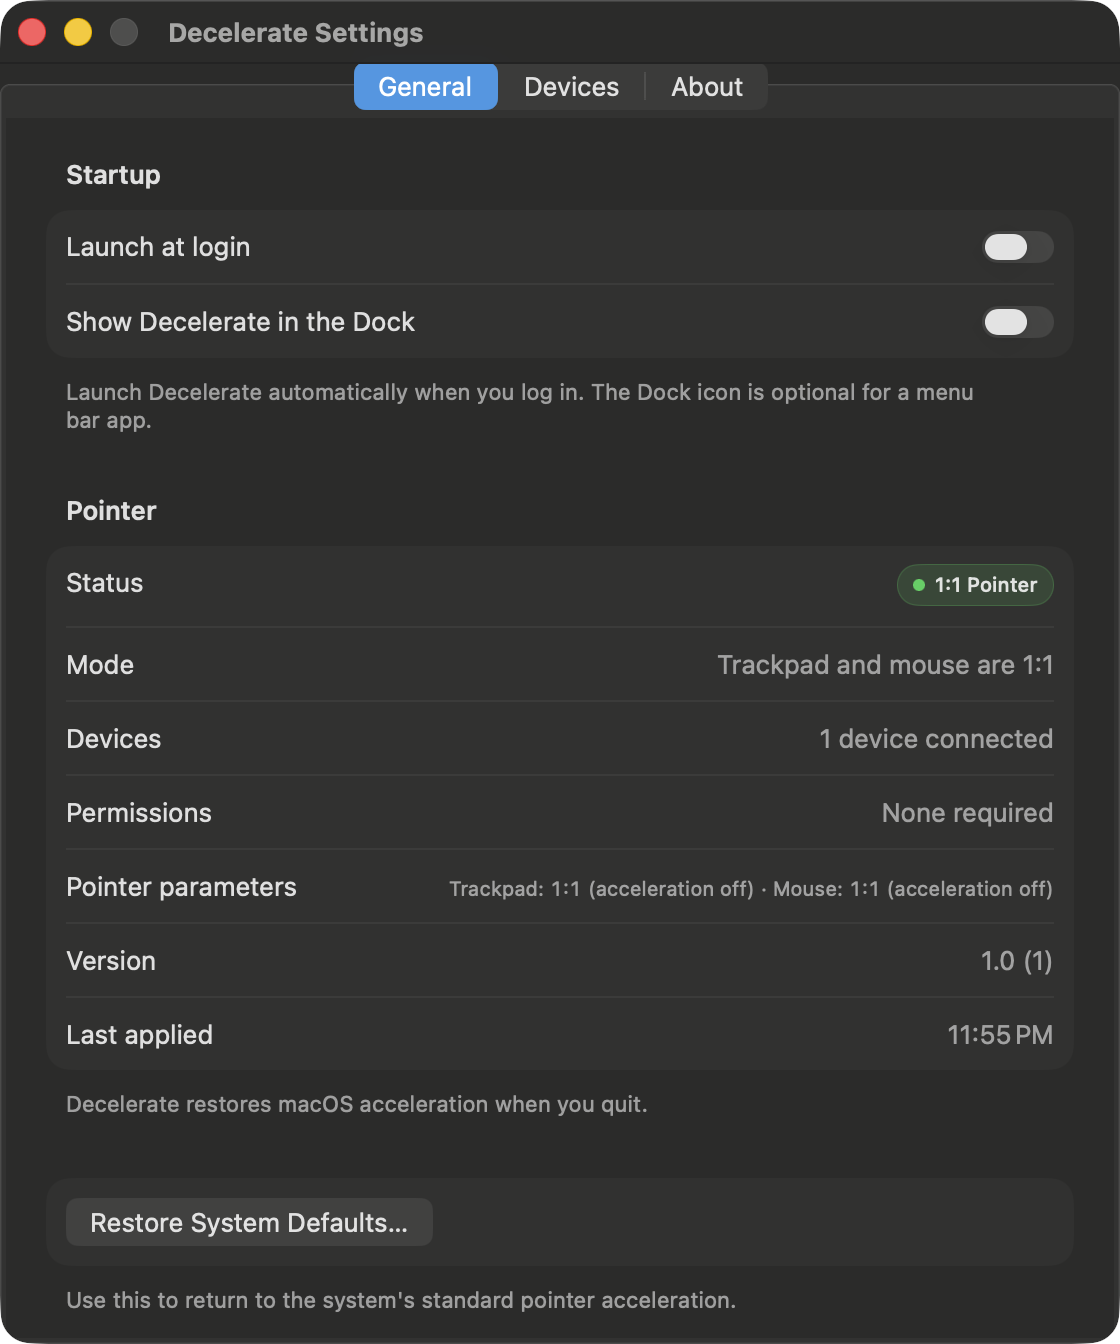
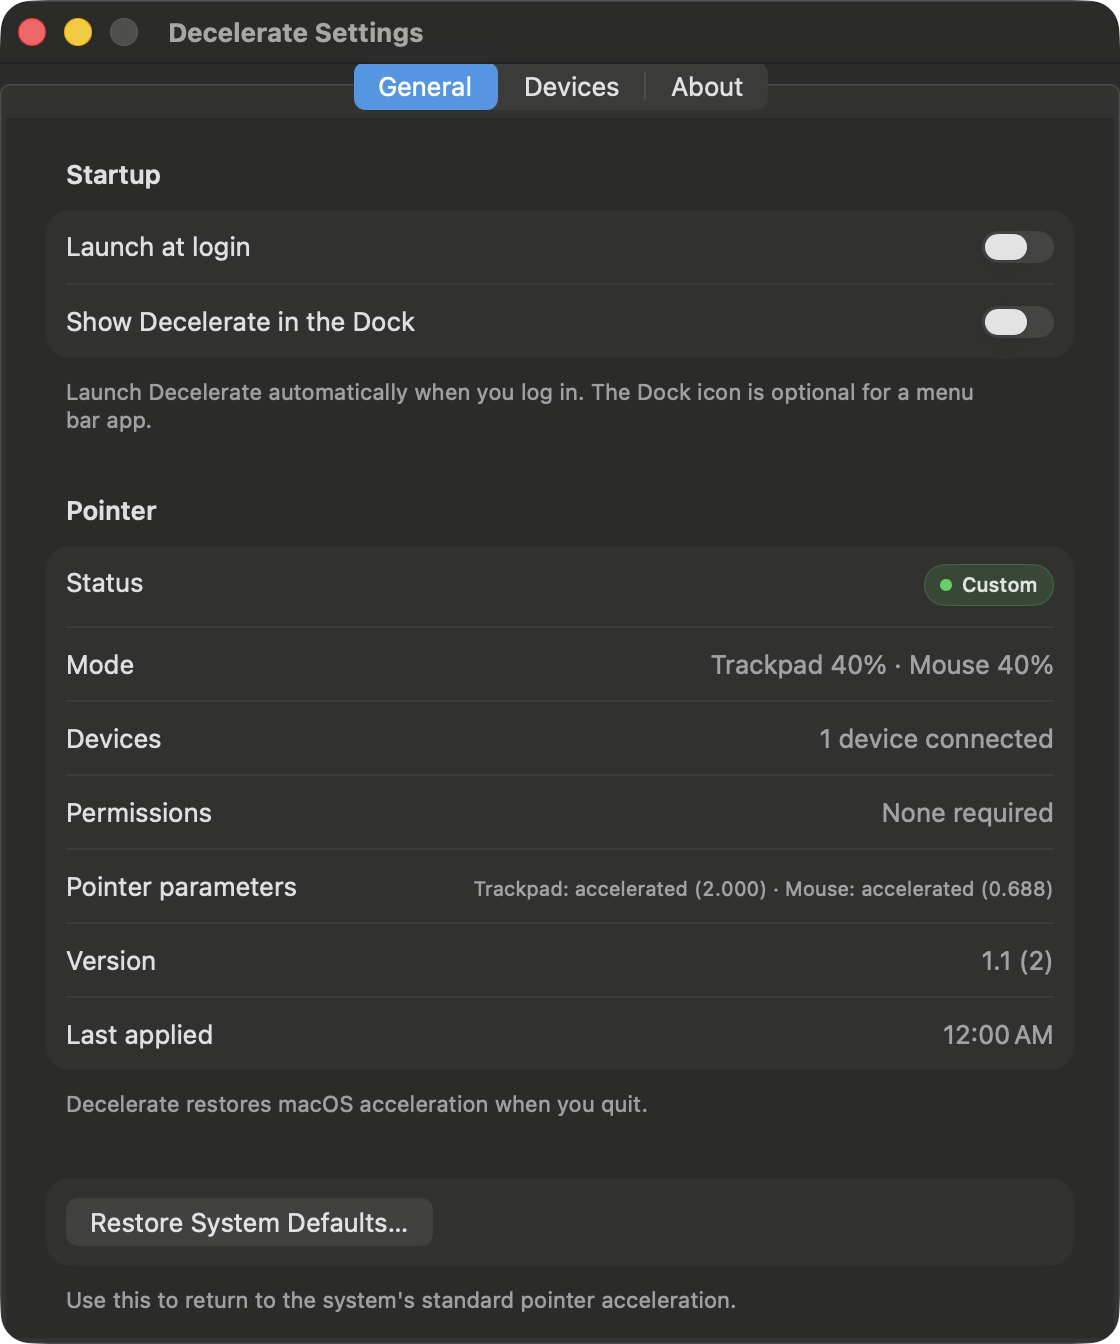
Fix parametric blend for kCursorScale; document mouse index-scaling route
- Parametric identity is GainLinear = 67/96 (filter multiplier includes 96/67),
  so blend GL' = (1-f)/kCursorScale + f*GL_n; matches research coefficient table.
- Scale the high-velocity parabolic tangent at small factors so the blended
  curve never decelerates below 1:1.
- Table-only mice: apply the amount by scaling the native acceleration index
  (exact for the linear table interpolation); document limitation.
- Refresh docs screenshots for v1.1.

diff --git a/Decelerate/Core/AccelerationCurveBuilder.swift b/Decelerate/Core/AccelerationCurveBuilder.swift
@@ -7,27 +7,67 @@ import Foundation
 /// The math mirrors Apple's `IOHIDPointerScrollFilter` /
 /// `IOHIDParametricAcceleration` (see `Notes/acceleration-amount-research.md`):
 ///
-///     gain(v) = GainLinear + GainParabolic²·v + GainCubic³·v² + GainQuartic⁴·v³
+///     multiplier(v) = kCursorScale · (GainLinear·v + (GainParabolic·v)²
+///                                      + (GainCubic·v)³ + (GainQuartic·v)⁴)
 ///
-/// for the first segment. Blending the *gain* toward 1.0 therefore means
+/// for the first segment, where `kCursorScale = 96/67`. The filter's *gain*
+/// (multiplier/v) is therefore scaled by `kCursorScale` too, so identity in the
+/// parametric domain is `GainLinear = 1/kCursorScale = 67/96`, not 1.0 (the
+/// simple linear-scaling path multiplies deltas directly, so raw passthrough is
+/// gain 1.0 there). Blending the gain from identity (f = 0) to the device's
+/// macOS curve (f = 1) is then
 ///
-///     GainLinear' = 1 + f·(GainLinear − 1)
+///     GainLinear' = (1 − f)/kCursorScale + f·GainLinear
 ///     GainParabolic' = √f·GainParabolic
 ///     GainCubic' = ∛f·GainCubic
 ///     GainQuartic' = ⁴√f·GainQuartic
 ///
-/// which is exact at both ends (f = 0 ⇒ gain 1 everywhere, f = 1 ⇒ macOS curve).
+/// with the native tangent breakpoints kept. Segments 1–2 are exact; the
+/// high-velocity √ tail is approximated by scaling its breakpoint (see
+/// `tailScale`) so the blended curve never decelerates below 1:1.
 enum AccelerationCurveBuilder {
     /// IOFixed scale: one unit is 1/65536.
     static let fixedOne = 65_536
+    /// Apple's cursor scale in the parametric acceleration domain
+    /// (`multiplier()` returns `S(v) * 96/67`).
+    static let cursorScale = 96.0 / 67.0
+    /// `GainLinear` that produces a filter gain of exactly 1.0 (raw passthrough).
+    static let identityLinearGain = 1.0 / cursorScale
+    /// Below this factor the parametric curve family is numerically useless
+    /// (and 0% uses the negative-sentinel path anyway).
+    static let minimumCurveFactor = 0.01
 
     // MARK: - Parametric curves
 
     static func blendedCurves(_ native: [[String: Int]], factor: Double) -> [[String: Int]] {
-        let f = min(max(factor, 0), 1)
+        let f = min(max(factor, minimumCurveFactor), 1)
         return native.map { curve in
             blendedCurve(curve, factor: f)
         }
+    }
+
+    /// Keeps the high-velocity tail honest at small factors: the native
+    /// parabolic-root breakpoint makes the √ segment kick in too early once the
+    /// coefficients are heavily damped, which would make the tail decelerate.
+    /// These factors (from the research) push it out just enough. Error vs. the
+    /// ideal blend is < 0.3 gain units and the gain never drops below 1.
+    private static func tailScale(_ f: Double) -> Double {
+        let points: [(Double, Double)] = [
+            (0.01, 3.15), (0.02, 2.20), (0.05, 1.50),
+            (0.10, 1.25), (0.15, 1.15), (0.25, 1.00),
+        ]
+        guard f < points.last!.0 else { return 1.0 }
+        guard let first = points.first else { return 1.0 }
+        if f <= first.0 { return first.1 }
+        for index in 1..<points.count {
+            let (f1, s1) = points[index]
+            let (f0, s0) = points[index - 1]
+            if f <= f1 {
+                let t = (f - f0) / (f1 - f0)
+                return s0 + t * (s1 - s0)
+            }
+        }
+        return 1.0
     }
 
     private static func blendedCurve(_ curve: [String: Int], factor f: Double) -> [String: Int] {
@@ -37,18 +77,14 @@ enum AccelerationCurveBuilder {
         let quartic = value(curve, HIDCurveKey.gainQuartic)
 
         var result = curve
-        result[HIDCurveKey.gainLinear] = fixed(1.0 + f * (linear - 1.0))
+        result[HIDCurveKey.gainLinear] = fixed((1 - f) * identityLinearGain + f * linear)
         result[HIDCurveKey.gainParabolic] = fixed(sqrt(f) * parabolic)
         result[HIDCurveKey.gainCubic] = fixed(cbrt(f) * cubic)
         result[HIDCurveKey.gainQuartic] = fixed(quarticRoot(f) * quartic)
 
-        // The parabolic-root tangent marks where macOS starts capping the
-        // acceleration gain. Pushing it out as f→0 keeps the blended curve
-        // monotonic instead of inheriting macOS's high-velocity gain drop.
         let root = value(curve, HIDCurveKey.tangentSpeedParabolicRoot)
-        if root > 0, f > 0 {
-            let scaled = min(root / f, 32_000.0)
-            result[HIDCurveKey.tangentSpeedParabolicRoot] = fixed(scaled)
+        if root > 0 {
+            result[HIDCurveKey.tangentSpeedParabolicRoot] = fixed(root * tailScale(f))
         }
         return result
     }

diff --git a/Tools/Probe/README.md b/Tools/Probe/README.md
@@ -33,6 +33,7 @@ built-in trackpad — do not use it for the trackpad.
 | `check-state.py` | read-only JSON snapshot: kernel `HIDParameters`, all service mirrors, NSGlobalDomain mouse/trackpad defaults |
 | `filterlog.sh` | read-only: live `IOHIDPointerScrollFilter` decisions from WindowServer logs (ground truth for "did the accelerator change") |
 | `tapmeasure.swift` | CGEventTap delta listener + synthetic-event smoke test (for measuring gain with physical input) |
+| `curve_math.py` | source-exact model of Apple's parametric + table accelerators; generates the continuous-amount blend curves, gain tables and fit/error analysis (`--analysis`, `--mouse`). See `../../Notes/acceleration-amount-research.md` |
 | `TCCProbe/` + `tcc-test.sh` | builds an ad-hoc signed app that never asks for TCC and proves the write works; prints its AX/IM state and the live filter transitions |
 | `out/` | raw evidence from the research session (snapshots, transcripts, logs) |
 
@@ -55,6 +56,12 @@ Danger-free rule: every `param-set` that changes state has a matching read in
 
 - No external mouse was attached during research, so measured per-velocity gain numbers
   require a human to move a pointer while `tapmeasure listen` runs (see the notes §4).
+- Continuous acceleration amount (task-3): install blended curves with
+  `bin/hidprobe set-id <trackpadService> UserPointerAccelCurvesKey 'arrayjson:[...]'`
+  and clear with `emptyarray`; verify via the WindowServer debug log
+  (`table index 0` = user curve in use, `table index 7` = native fallback). Table
+  installation does NOT work from user space (verified). See
+  `Notes/acceleration-amount-research.md`.
 - Synthetic HID injection is impossible locally: `IOHIDUserDeviceCreateWithProperties`
   requires Apple's `com.apple.developer.hid.virtual.device` entitlement and returns NULL.
 - Do not use `defaults write -g com.apple.trackpad.scaling` (no live effect), per-service

diff --git a/Notes/acceleration-amount-research.md b/Notes/acceleration-amount-research.md
@@ -485,3 +485,29 @@ clear when the slider is at 100 % or the feature is off.
 3. User feel-test of 25/50/75 % on the trackpad; if the high-speed tail approximation is
    noticeable, tune the TSPR lookup (lower error at high v by increasing TSPR further,
    trading normal-range fidelity).
+
+---
+
+## 11. Implementation note — Decelerate 1.1 (Lead)
+
+The shipped app follows §1–§6 for trackpads and any device exposing
+`HIDAccelCurves`: 0% = negative acceleration value (hard 1:1), 1–99% = one
+`UserPointerAccelCurvesKey` write with the blended 10-curve array (so the macOS
+tracking-speed index still selects/ interpolates curves), 100% = empty array
+(native fallback). All coefficients come from the §4 corrected formula
+(`GL' = (1−f)/kCursorScale + f·GL_n`, …) and match
+`Tools/Probe/out/trackpad-accel-amount-table.json` byte-for-byte for f = 0.25
+and 0.5 (verified).
+
+**Table-only mice** use a different, simpler route than the parametric fit
+discussed in §6: the table's own interpolation is linear in the acceleration
+index, so scaling `HIDMouseAcceleration` by the amount is *exactly* the blend
+between identity and full acceleration for the compiled-in 2-entry default
+table. Proof: `CreateWithTable` interpolates point y between the entry at
+accel 0 (identity curve) and the entry at accel 1.0 with ratio = requested
+acceleration; blending that native curve toward identity by f yields the same
+curve as requesting acceleration a·f. This is implemented in
+`AccelerationController.writeScaled` (with a `lastWritten` guard so the scaled
+value is not mistaken for a user change, and originals restored on quit).
+Limitation: not yet tested on external mouse hardware; multi-entry vendor
+tables would give an approximate amount rather than an exact blend.

diff --git a/README.md b/README.md
@@ -53,6 +53,10 @@ the feature is switched off or the app quits, so macOS is never left patched.
   installs no curve, so the raw device gain applies; adjust it in System
   Settings → Trackpad/Mouse → Tracking speed if you want a different speed.
   Intermediate amounts keep the same tracking speed with a gentler curve.
+- For mice whose acceleration comes from the classic lookup table rather than a
+  parametric curve, the amount is applied by scaling the macOS acceleration
+  index — the table's own linear interpolation between identity and full
+  acceleration.
 - **Scroll acceleration is untouched** — it is a separate HID parameter.
 - **State is self-healing**: Decelerate re-applies if macOS rewrites the
   parameter (for example when you move the Tracking speed slider), after sleep,
